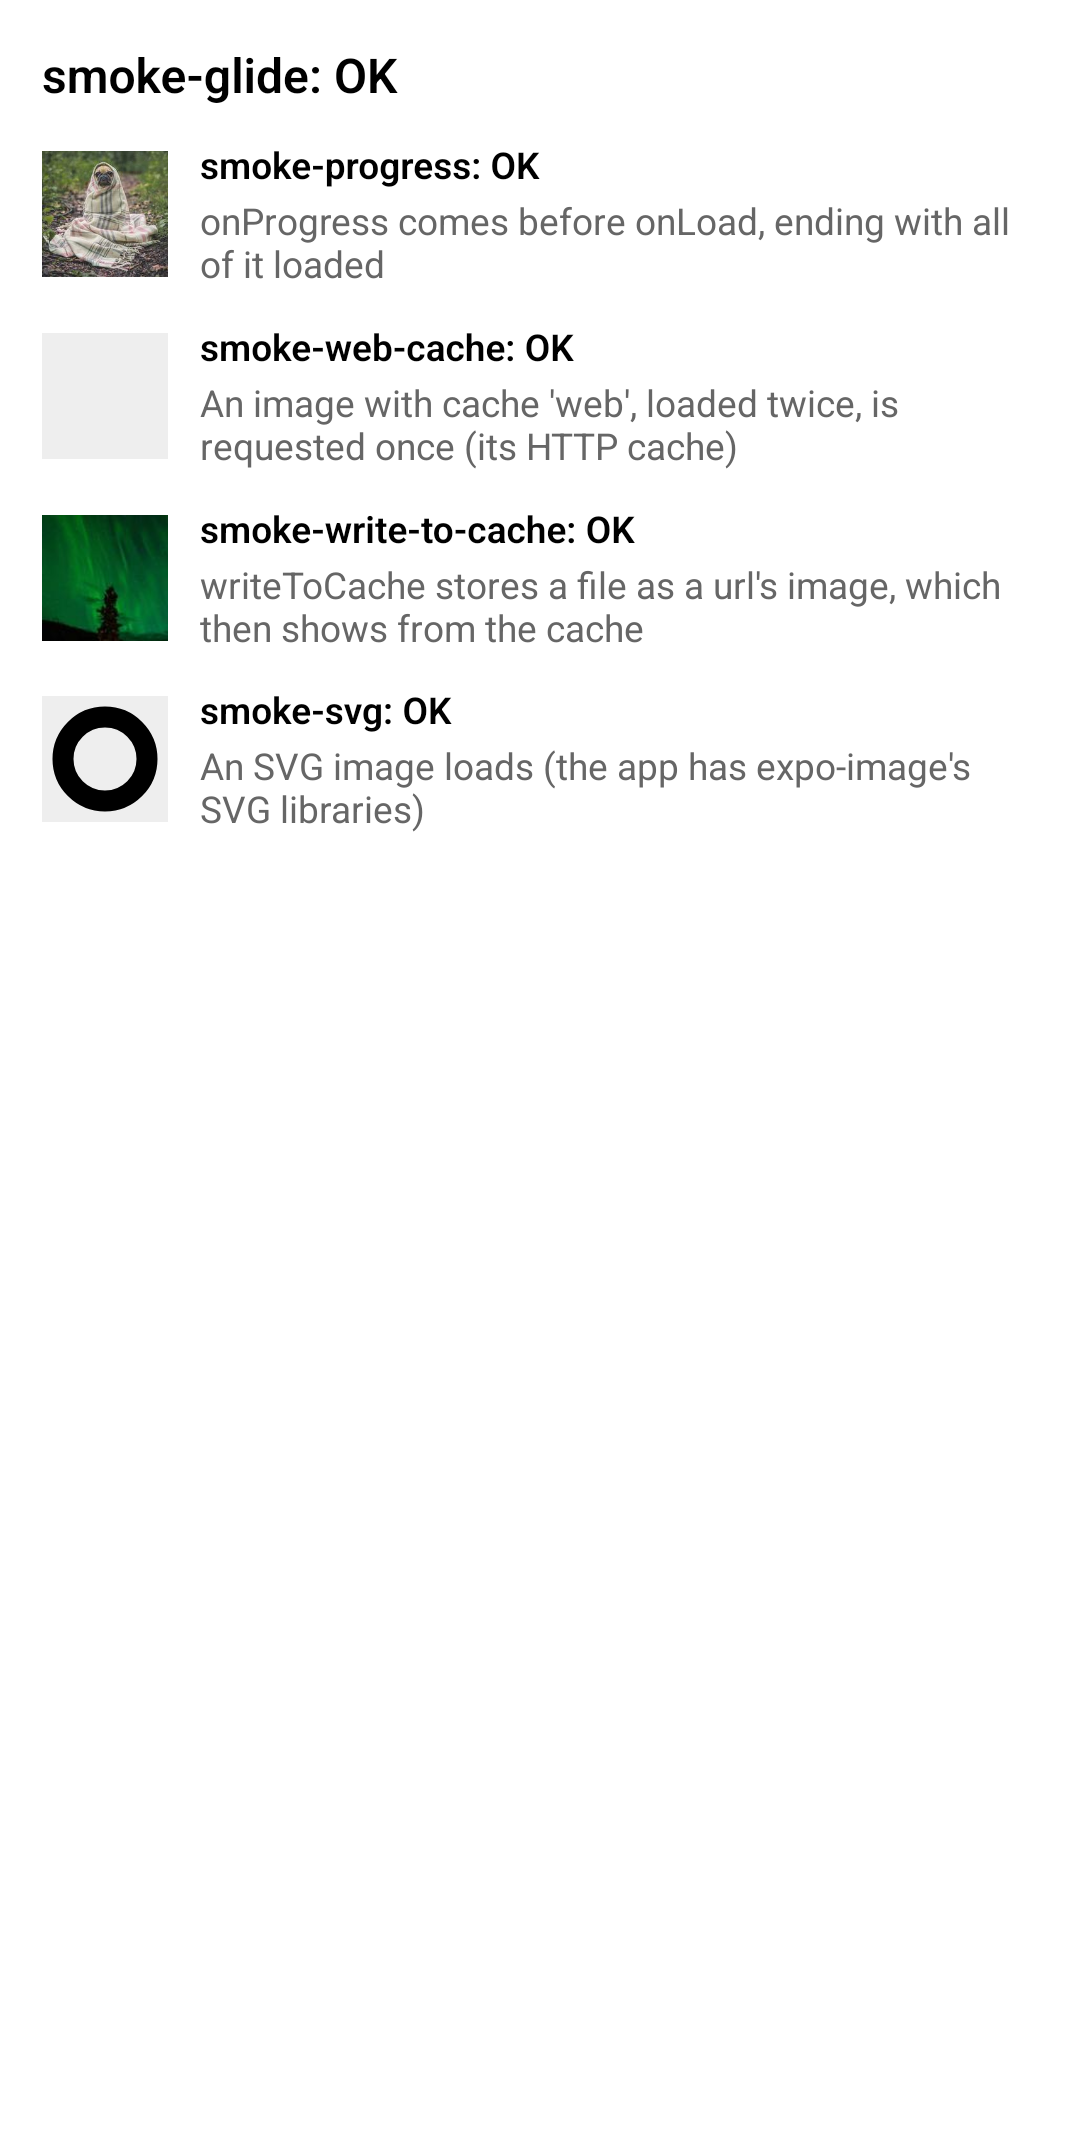
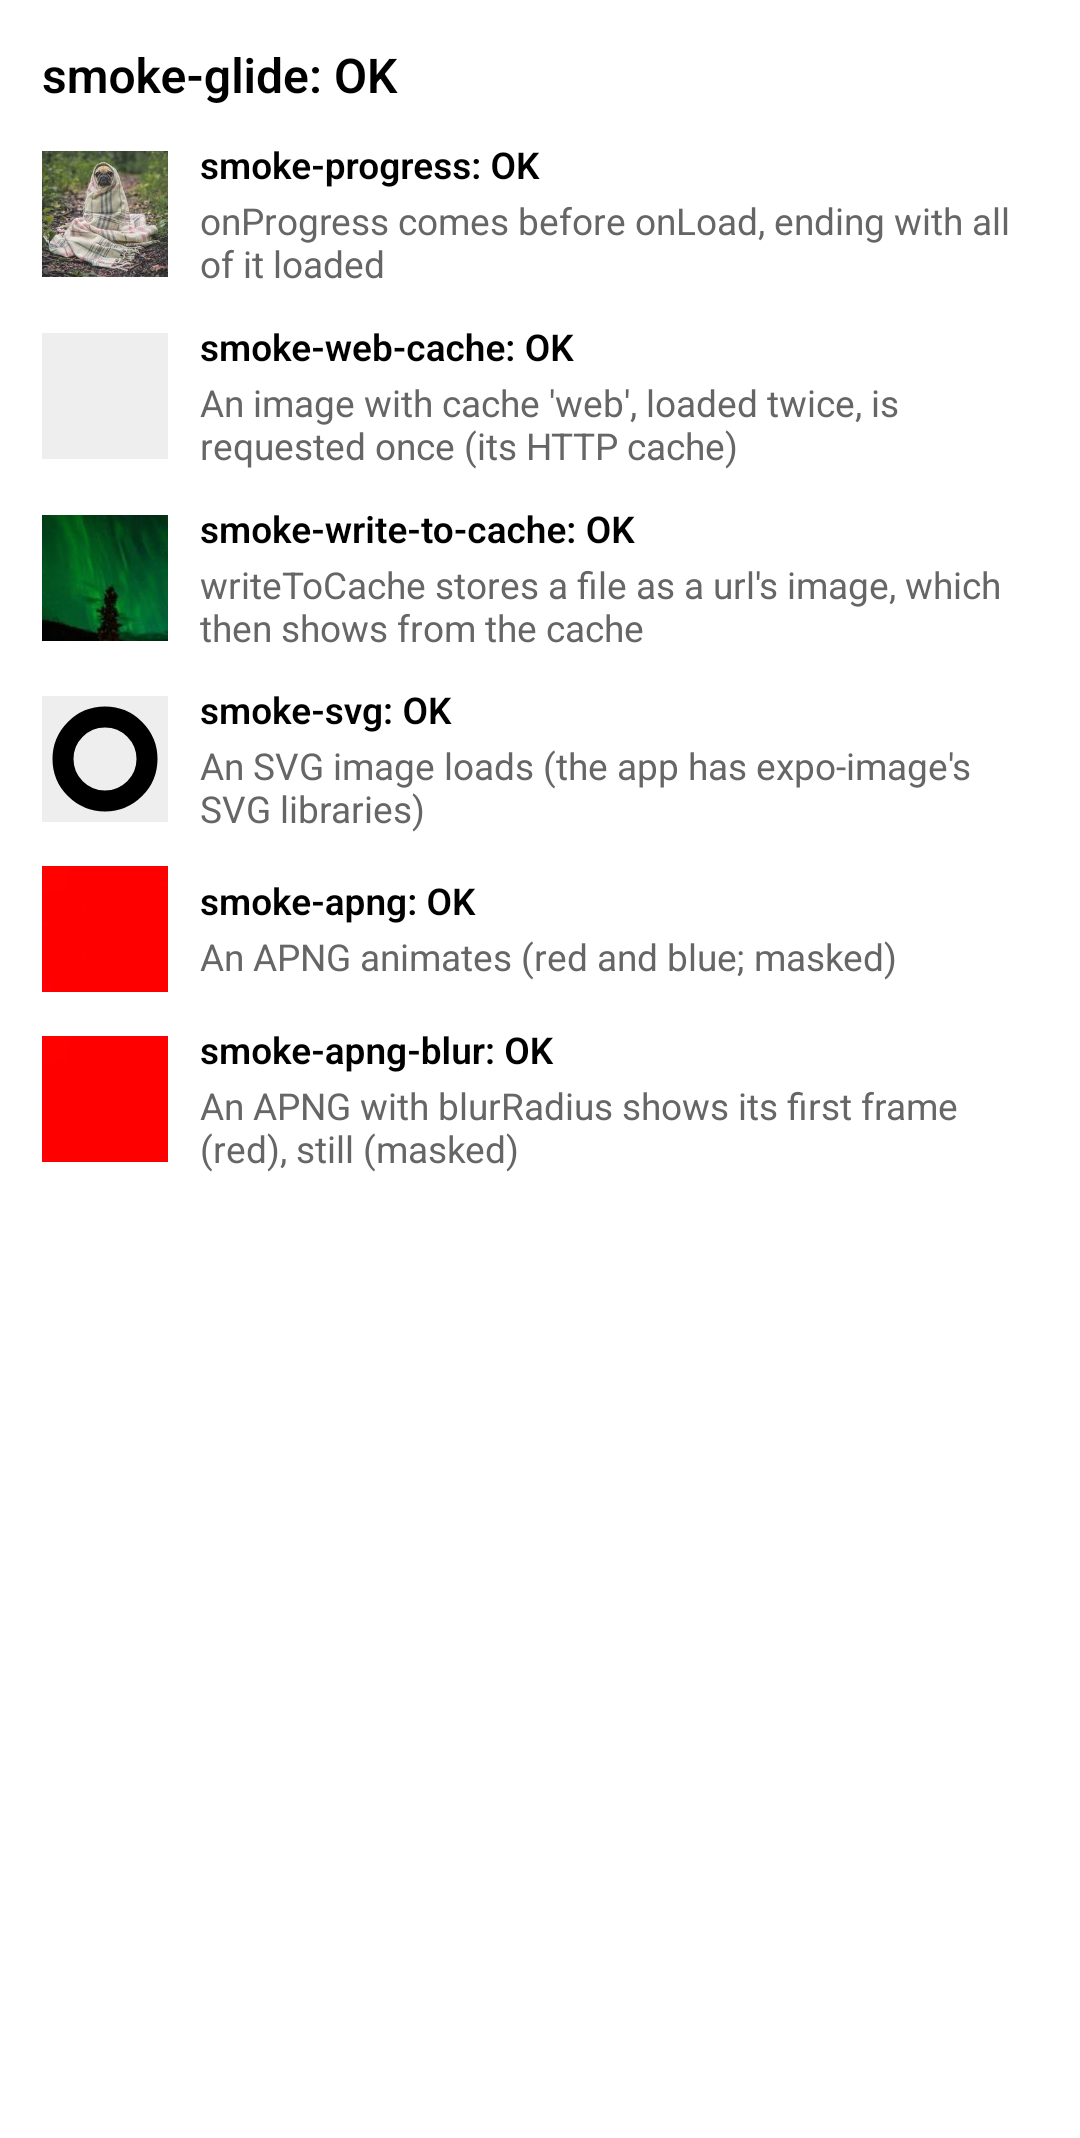
fix(android): load FastImage's urls with their own model instead of replacing Glide's GlideUrl loader

Changed region(s): [[0.1833, 0.4013, 0.825, 0.5557], [0.0306, 0.4013, 0.1528, 0.5557], [0.5806, 0.4939, 0.8861, 0.5248]]

diff --git a/ReactNativeFastImageExample/src/SmokeExample.tsx b/ReactNativeFastImageExample/src/SmokeExample.tsx
@@ -1,9 +1,14 @@
-import React, { useEffect, useRef, useState } from 'react'
+import React, { useContext, useEffect, useRef, useState } from 'react'
 import { PixelRatio, Platform, View } from 'react-native'
 import FastImage, { LoadResult } from 'react-native-fast-image'
 import { CaseStatus, caseStyles as styles } from './CaseStatus'
 import { imageUrl } from './imageServer'
-import type { RegressionGroup } from './RunnerContext'
+import {
+    Masked,
+    measureView,
+    SampleContext,
+    type RegressionGroup,
+} from './RunnerContext'
 
 // A few cases that check FastImage works at all in an app (the Expo example,
 // ReactNativeFastImageExampleExpo, on iOS, Android and the web): an image
@@ -411,6 +416,75 @@ function SvgCase() {
     )
 }
 
+// An APNG (red, then blue, 400 ms each, looping) recorded for two plays: it
+// animates, or with blurRadius shows its first frame (red), blurred and still,
+// as Glide's "don't animate" option asks. In an app with expo-image, Glide
+// also has APNG4Android's plugin for APNGs, which ignores that option.
+const RED = '#ff0000'
+const BLUE = '#0000ff'
+const BLANK = '#eeeeee'
+function ApngCase({ blur }: { blur?: boolean }) {
+    const sample = useContext(SampleContext)
+    const view = useRef<React.ComponentRef<typeof View>>(null)
+    const [status, setStatus] = useState('loading')
+    const started = useRef(false)
+    const id = blur ? 'smoke-apng-blur' : 'smoke-apng'
+    const expected = blur ? 'first frame' : 'animates'
+    const onLoad = async () => {
+        if (started.current) return
+        started.current = true
+        const area = await measureView(view.current)
+        if (!area) return setStatus('not on screen')
+        setStatus('recording')
+        const result = await sample(
+            {
+                name: id,
+                area,
+                durationMs: 3000,
+                expect: [RED, BLUE],
+                palette: [RED, BLUE, BLANK],
+            },
+            (done) => setTimeout(done, 1600),
+        )
+        const { seen } = result
+        const got =
+            seen.includes(RED) && seen.includes(BLUE)
+                ? 'animates'
+                : seen.length === 1 && seen[0] === RED
+                  ? 'first frame'
+                  : (result.detail ?? `saw ${seen.join(', ') || 'nothing'}`)
+        setStatus(got === expected ? 'OK' : `${got}, expected: ${expected}`)
+    }
+    return (
+        <View style={styles.row}>
+            <Masked>
+                <View ref={view} collapsable={false}>
+                    <FastImage
+                        style={styles.image}
+                        blurRadius={blur ? 4 : undefined}
+                        source={{
+                            uri: imageUrl(`formats/animated.png?${id}=${RUN}`),
+                        }}
+                        onLoad={onLoad}
+                        onError={(e) =>
+                            setStatus(`error: ${e.nativeEvent.error}`)
+                        }
+                    />
+                </View>
+            </Masked>
+            <CaseStatus
+                id={id}
+                status={status}
+                description={
+                    blur
+                        ? 'An APNG with blurRadius shows its first frame (red), still (masked)'
+                        : 'An APNG animates (red and blue; masked)'
+                }
+            />
+        </View>
+    )
+}
+
 export const SMOKE_GROUPS: RegressionGroup[] = [
     {
         name: 'smoke',
@@ -436,6 +510,8 @@ export const SMOKE_GROUPS: RegressionGroup[] = [
                       <WebCacheCase key="web-cache" />,
                       <WriteToCacheCase key="write-to-cache" />,
                       <SvgCase key="svg" />,
+                      <ApngCase key="apng" />,
+                      <ApngCase key="apng-blur" blur />,
                   ],
               },
           ]),

diff --git a/android/src/main/java/com/dylanvann/fastimage/FastImageOkHttpProgressGlideModule.java b/android/src/main/java/com/dylanvann/fastimage/FastImageOkHttpProgressGlideModule.java
@@ -119,11 +119,6 @@ public class FastImageOkHttpProgressGlideModule extends LibraryGlideModule {
             builder.cookieJar(new JavaNetCookieJar(new FastImageCookieHandler(context)));
         }
         OkHttpClient client = builder.build();
-        registry.replace(GlideUrl.class, InputStream.class, new UrlLoaderFactory(client));
-        FastImageSvg.register(registry, glide.getBitmapPool());
-        FastImageAnimated.register(context, glide, registry);
-        FastImageApng.register(registry);
-
         // `cache: 'web'` skips Glide's caches and relies on HTTP caching, so
         // those urls get a client with an HTTP cache (#280): one of their own,
         // not the app's (if it gave React Native's shared client one), so
@@ -132,7 +127,10 @@ public class FastImageOkHttpProgressGlideModule extends LibraryGlideModule {
         // store them twice).
         webCache = new Cache(new File(context.getCacheDir(), "fast-image-http-cache"), WEB_CACHE_SIZE);
         webClient = client.newBuilder().cache(webCache).build();
-        registry.prepend(FastImageWebGlideUrl.class, InputStream.class, new WebUrlLoaderFactory(webClient));
+        registry.prepend(FastImageUrl.class, InputStream.class, new UrlLoaderFactory(client, webClient));
+        FastImageSvg.register(registry, glide.getBitmapPool());
+        FastImageAnimated.register(context, glide, registry);
+        FastImageApng.register(registry);
 
         // writeToCache: local files stored under a source's key.
         registry.prepend(FastImageCacheWrite.class, InputStream.class,
@@ -140,63 +138,38 @@ public class FastImageOkHttpProgressGlideModule extends LibraryGlideModule {
         FastImageGlide.registered(glide);
     }
 
-    // Loads GlideUrls with the given client, except `web` ones
-    // (FastImageWebGlideUrls): Glide gives a model to the loaders of its
-    // superclasses too, and tries the next one when a load fails, so a `web`
-    // image that failed (e.g. a 404) was requested again with this client,
-    // without the HTTP cache, which also hid the failure.
-    private static class UrlLoaderFactory implements ModelLoaderFactory<GlideUrl, InputStream> {
+    // Loads FastImage's remote images (FastImageUrls): `web` ones
+    // (FastImageWebGlideUrls) with the client with the HTTP cache, others with
+    // the other client, where a view loading an image that's being preloaded
+    // waits for the preload's download. FastImageUrl isn't a GlideUrl, so
+    // Glide doesn't also give these to other GlideUrl loaders, which it would
+    // try after a failed load (e.g. a 404, requested again).
+    private static class UrlLoaderFactory implements ModelLoaderFactory<FastImageUrl, InputStream> {
         private final OkHttpClient client;
+        private final OkHttpClient webClient;
 
-        UrlLoaderFactory(OkHttpClient client) {
+        UrlLoaderFactory(OkHttpClient client, OkHttpClient webClient) {
             this.client = client;
+            this.webClient = webClient;
         }
 
         @NonNull
         @Override
-        public ModelLoader<GlideUrl, InputStream> build(@NonNull MultiModelLoaderFactory multiFactory) {
+        public ModelLoader<FastImageUrl, InputStream> build(@NonNull MultiModelLoaderFactory multiFactory) {
             final OkHttpUrlLoader loader = new OkHttpUrlLoader(client);
-            return new ModelLoader<GlideUrl, InputStream>() {
+            final OkHttpUrlLoader webLoader = new OkHttpUrlLoader(webClient);
+            return new ModelLoader<FastImageUrl, InputStream>() {
                 @Override
-                public LoadData<InputStream> buildLoadData(@NonNull GlideUrl model, int width, int height, @NonNull Options options) {
-                    LoadData<InputStream> data = loader.buildLoadData(model, width, height, options);
-                    // A view loading an image that's being preloaded waits
-                    // for the preload's download.
-                    return data == null ? null : FastImageSharedDownloads.share(data, model, options);
+                public LoadData<InputStream> buildLoadData(@NonNull FastImageUrl model, int width, int height, @NonNull Options options) {
+                    if (model.url instanceof FastImageWebGlideUrl) {
+                        return webLoader.buildLoadData(model.url, width, height, options);
+                    }
+                    LoadData<InputStream> data = loader.buildLoadData(model.url, width, height, options);
+                    return data == null ? null : FastImageSharedDownloads.share(data, model.url, options);
                 }
 
                 @Override
-                public boolean handles(@NonNull GlideUrl model) {
-                    return !(model instanceof FastImageWebGlideUrl);
-                }
-            };
-        }
-
-        @Override
-        public void teardown() {
-        }
-    }
-
-    // Loads FastImageWebGlideUrls with the given client.
-    private static class WebUrlLoaderFactory implements ModelLoaderFactory<FastImageWebGlideUrl, InputStream> {
-        private final OkHttpClient client;
-
-        WebUrlLoaderFactory(OkHttpClient client) {
-            this.client = client;
-        }
-
-        @NonNull
-        @Override
-        public ModelLoader<FastImageWebGlideUrl, InputStream> build(@NonNull MultiModelLoaderFactory multiFactory) {
-            final OkHttpUrlLoader loader = new OkHttpUrlLoader(client);
-            return new ModelLoader<FastImageWebGlideUrl, InputStream>() {
-                @Override
-                public LoadData<InputStream> buildLoadData(@NonNull FastImageWebGlideUrl model, int width, int height, @NonNull Options options) {
-                    return loader.buildLoadData(model, width, height, options);
-                }
-
-                @Override
-                public boolean handles(@NonNull FastImageWebGlideUrl model) {
+                public boolean handles(@NonNull FastImageUrl model) {
                     return true;
                 }
             };

diff --git a/android/src/main/java/com/dylanvann/fastimage/FastImageViewModule.java b/android/src/main/java/com/dylanvann/fastimage/FastImageViewModule.java
@@ -271,7 +271,7 @@ class FastImageViewModule extends ReactContextBaseJavaModule {
     // thread. For a preload (`shared`), views that load the image meanwhile
     // wait for the download and read its file (FastImageSharedDownloads).
     private static void loadFile(Context context, Object model, RequestOptions options, boolean shared, final FileCallback callback) {
-        final String key = shared && model instanceof GlideUrl ? ((GlideUrl) model).getCacheKey() : null;
+        final String key = shared && model instanceof FastImageUrl ? ((FastImageUrl) model).url.getCacheKey() : null;
         FastImageGlide.get(context);
         Glide.with(context)
                 .asFile()
@@ -351,7 +351,7 @@ class FastImageViewModule extends ReactContextBaseJavaModule {
             cachePathExecutor.execute(new Runnable() {
                 @Override
                 public void run() {
-                    File file = cachedFile(context, FastImageKeyedGlideUrl.forKey(cacheKey), new RequestOptions());
+                    File file = cachedFile(context, new FastImageUrl(FastImageKeyedGlideUrl.forKey(cacheKey)), new RequestOptions());
                     promise.resolve(file != null ? pathResult(file) : failure("Not in the disk cache"));
                 }
             });
@@ -489,7 +489,7 @@ class FastImageViewModule extends ReactContextBaseJavaModule {
         final GlideUrl key = imageSource != null && imageSource.isRemote()
                 ? imageSource.getGlideUrl()
                 : FastImageKeyedGlideUrl.forKey(cacheKey);
-        final Object lookUp = imageSource != null && imageSource.isRemote() ? imageSource.getSourceForLoad() : key;
+        final Object lookUp = imageSource != null && imageSource.isRemote() ? imageSource.getSourceForLoad() : new FastImageUrl(key);
         // A file:// or content:// uri, or a path.
         Uri parsed = Uri.parse(file);
         final Uri fileUri = parsed.getScheme() == null ? Uri.fromFile(new File(file)) : parsed;

diff --git a/android/src/main/java/com/dylanvann/fastimage/FastImageUrl.java b/android/src/main/java/com/dylanvann/fastimage/FastImageUrl.java
@@ -1,0 +1,36 @@
+package com.dylanvann.fastimage;
+
+import androidx.annotation.NonNull;
+
+import com.bumptech.glide.load.model.GlideUrl;
+
+// What FastImage loads a remote image with: its GlideUrl (url, headers, and
+// cache key: the disk cache key stays the GlideUrl's), loaded by FastImage's
+// own loader (FastImageOkHttpProgressGlideModule). Not a GlideUrl itself: the
+// app's Glide may have other GlideUrl loaders (Glide's, another library's,
+// e.g. expo-image's), which Glide would also try after a failed load, and
+// FastImage leaves them as they are for the app's other loads.
+final class FastImageUrl {
+    final GlideUrl url;
+
+    FastImageUrl(@NonNull GlideUrl url) {
+        this.url = url;
+    }
+
+    @Override
+    public boolean equals(Object other) {
+        return other instanceof FastImageUrl && url.equals(((FastImageUrl) other).url);
+    }
+
+    @Override
+    public int hashCode() {
+        return url.hashCode();
+    }
+
+    // The GlideUrl's (its cache key), which FastImageSourceSize keys sizes by.
+    @NonNull
+    @Override
+    public String toString() {
+        return url.toString();
+    }
+}

diff --git a/android/src/main/java/com/dylanvann/fastimage/FastImageRequestListener.java b/android/src/main/java/com/dylanvann/fastimage/FastImageRequestListener.java
@@ -4,7 +4,6 @@ import android.graphics.drawable.Drawable;
 
 import com.bumptech.glide.load.DataSource;
 import com.bumptech.glide.load.engine.GlideException;
-import com.bumptech.glide.load.model.GlideUrl;
 import com.bumptech.glide.load.resource.gif.GifDrawable;
 import com.bumptech.glide.request.Request;
 import com.bumptech.glide.request.RequestListener;
@@ -83,7 +82,7 @@ public class FastImageRequestListener implements RequestListener<Drawable> {
             view.applyLoopCount((GifDrawable) resource);
         }
         if (!events) return false;
-        boolean local = !(model instanceof GlideUrl);
+        boolean local = !(model instanceof FastImageUrl);
         int[] size = FastImageSourceSize.get(resource, model, local,
                 dataSource == DataSource.RESOURCE_DISK_CACHE);
         if (size != null) {

diff --git a/android/src/main/java/com/dylanvann/fastimage/FastImageWebGlideUrl.java b/android/src/main/java/com/dylanvann/fastimage/FastImageWebGlideUrl.java
@@ -6,6 +6,7 @@ import com.bumptech.glide.load.model.Headers;
 // A url loaded with `cache: 'web'`. Glide doesn't cache these, so they load
 // through an OkHttp client with an HTTP cache (see
 // FastImageOkHttpProgressGlideModule) to follow the server's caching headers.
+// Loaded as a FastImageUrl, like FastImage's other urls.
 class FastImageWebGlideUrl extends GlideUrl {
     FastImageWebGlideUrl(String url, Headers headers) {
         super(url, headers);

diff --git a/android/src/main/java/com/dylanvann/fastimage/FastImageSource.java b/android/src/main/java/com/dylanvann/fastimage/FastImageSource.java
@@ -122,7 +122,7 @@ public class FastImageSource extends ImageSource {
         if (isLocalFile()) {
             return getUri().toString();
         }
-        return getGlideUrl();
+        return new FastImageUrl(getGlideUrl());
     }
 
     @Override

diff --git a/docs/android-build-settings.md b/docs/android-build-settings.md
@@ -48,4 +48,4 @@ FastImage's Expo config plugin doesn't set `excludeAppGlideModule`: an Expo app 
 
 ### With expo-image
 
-expo-image has an `AppGlideModule` too, so when the app has expo-image, FastImage leaves its own out, as `excludeAppGlideModule = true` does. It looks for expo-image in the `node_modules` folders above the app's `android` folder, as Node does: in a monorepo where only another app has it, set `excludeAppGlideModule = false` to keep FastImage's. Images load with expo-image's Glide setup, including its disk cache, and FastImage adds its components to it. FastImage's decoders (animated WebP and AVIF, APNG, SVG) only take FastImage's images, so expo-image's images keep expo-image's. As with an app's own module, `maxDiskSize` isn't applied or reported on Android.
+expo-image has an `AppGlideModule` too, so when the app has expo-image, FastImage leaves its own out, as `excludeAppGlideModule = true` does. It looks for expo-image in the `node_modules` folders above the app's `android` folder, as Node does: in a monorepo where only another app has it, set `excludeAppGlideModule = false` to keep FastImage's. Images load with expo-image's Glide setup, including its disk cache, and FastImage adds its components to it. FastImage's network setup (its OkHttp client, with the app's cookies, and the HTTP cache of `cache: 'web'` images) and its decoders (animated WebP and AVIF, APNG, SVG) only apply to FastImage's images, so expo-image's images and prefetches keep expo-image's. As with an app's own module, `maxDiskSize` isn't applied or reported on Android.
